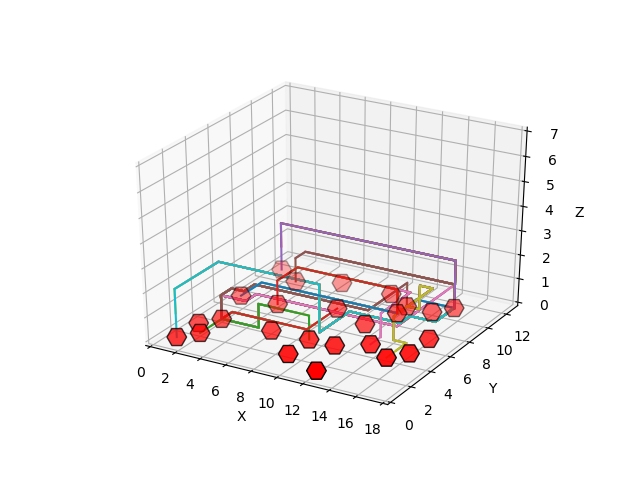
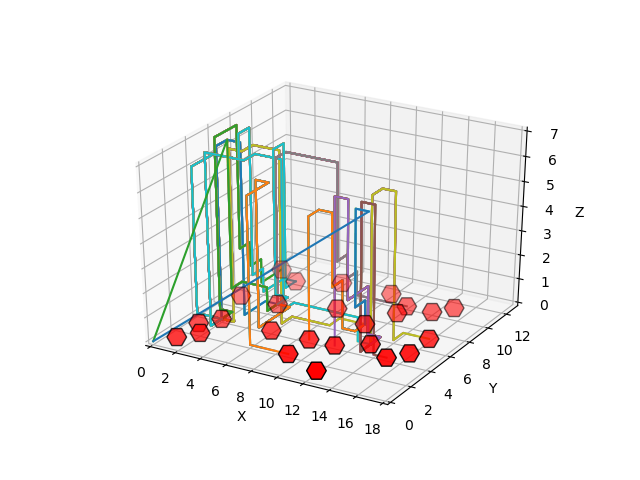
Hill Climber for Astar

Changed region(s): [[0.2188, 0.25, 0.7188, 0.75], [0.4062, 0.7188, 0.4375, 0.75]]

diff --git a/code/algorithms/hill.py b/code/algorithms/hill.py
@@ -1,13 +1,47 @@
 import copy
 import random
 
+from code.algorithms.astar import execute_astar
+
+
 class HillClimber():
-	def __init__(self, grid, netlist):
-		if not grid.is_solution():
-			raise Exception("HillClimber requires a complete solution.")
-
-		self.grid = copy.deepcopy(grid)
+	def __init__(self, chip, output_dict):
 		
-
-		self.netlist = netlist
+		self.output_dict = copy.deepcopy(output_dict)
+		self.run_hill = self.run(chip)
 	
+
+	def mutate_random_wire(self, chip):
+		random_wire = random.choice(list(self.output_dict.keys()))
+		for point in self.output_dict[random_wire]:
+			chip.grid[point[0]][point[1]][point[2]] = False
+		random_wire = [random_wire]
+		new_wire = execute_astar(random_wire, chip, False)
+
+		return new_wire
+
+
+	def check_solution(self, chip, new_wire):
+		old_cost = 0
+		new_cost = 0
+
+		net = next(iter(new_wire.keys()))
+
+		old_cost = (len(self.output_dict[net]) - 1)
+
+		new_cost = (len(new_wire[net]) - 1)
+
+		if new_cost < old_cost and not new_cost == 0:
+			self.output_dict.update(new_wire)
+			print("Hij is verbetert")
+		else:
+			for point in self.output_dict[net]:
+				chip.grid[point[0]][point[1]][point[2]] = True
+
+	
+	def run(self, chip):
+		for wires in range(750):
+			new_wire = self.mutate_random_wire(chip)
+			self.check_solution(chip, new_wire)
+		
+		return self.output_dict

diff --git a/code/algorithms/astar.py b/code/algorithms/astar.py
@@ -128,11 +128,11 @@ def execute_astar(netlist, chip, loose_layering):
 					between = (int((start[0] + end[0]) / 2), int((start[1] + end[1]) / 2), 7 - index)
 					path_1 = astar(gates, grid, start, between, occurance_gate)
 					path_2 = astar(gates, grid, between, end, occurance_gate)
-					print("if", path_1 + path_2)
+					# print("if", path_1 + path_2)
 					output_dict[net] = path_1 + path_2
 				else:
 					path = astar(gates, grid, start, end, occurance_gate)
-					print("else", path)
+					# print("else", path)
 					output_dict[net] = path
 
 	else:
@@ -145,8 +145,8 @@ def execute_astar(netlist, chip, loose_layering):
 			end = net[1]
 			path = astar(gates, grid, start, end, occurance_gate)
 			count += 1
-			print(path)
-			print(count)
+			# print(path)
+			# print(count)
 			output_dict[net] = path
 
 	return output_dict

diff --git a/code/classes/wiring.py b/code/classes/wiring.py
@@ -13,6 +13,7 @@ import csv
 from code.algorithms.xyz_move import xyz_wire
 from code.algorithms.astar import execute_astar
 from code.algorithms.hillclimb import *
+from code.algorithms.hill import *
 
 class Wiring():
 	""" This class outputs wires to connect gates as listed in netlist. """
@@ -29,6 +30,7 @@ class Wiring():
 			self.new_wires = change_wires(self.stuck, self.stuck_wires, self.chip, self.wire, loose_layering)
 		else:
 			self.wire = algorithm(self.netlist, self.chip, loose_layering)
+			self.hill = HillClimber(chip, self.wire)
 
 		self.output(self.wire)
 

diff --git a/main.py b/main.py
@@ -86,9 +86,13 @@ if __name__ == '__main__':
 		wires = wiring.Wiring(netlistloop.net_cor, chiploop, alg_req, loose_layering)
 
 		# calculate cost of the solution
-		cost = wires.cost(wires.wire)
-		print(f"The cost of this solution is {cost}\n")
-		total_cost += cost
+		cost_old = wires.cost(wires.wire)
+		cost_new = wires.cost(wires.hill.run_hill)
+		print(f"The old_cost of this solution is {cost_old}\n")
+		total_cost += cost_old
+
+		print(f"The new_cost of this solution is {cost_new}\n")
+		total_cost += cost_new
 
 		count = 0
 		for wire in wires.wire.values():

diff --git a/PROCESS.md b/PROCESS.md
@@ -172,6 +172,15 @@ Vandaag
   - longest_first: Hierbij sorteren we de netlist op manhattan_distance. Deze blijkt niet beter te werken dan de most_common sortering.
 
 
+### Woensdag
+
+Vandaag
+  - Between aangepast 
+  - Cost functie aangepast
+  - Hill Climber voor Astar
+  - Random wire eerst verwijderen, dan nieuwe route in grid
+
+
 Stap 4 - optimaliseer
 
 
